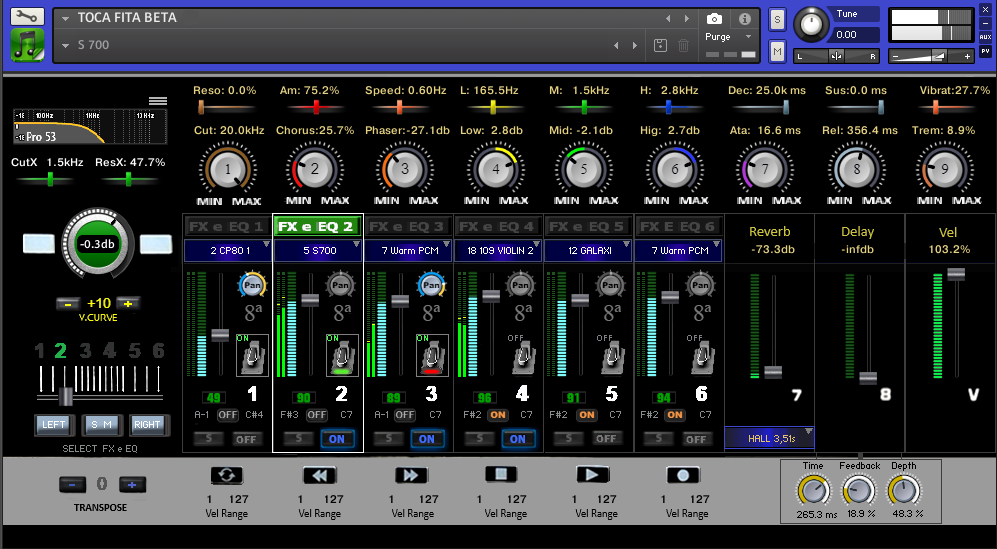
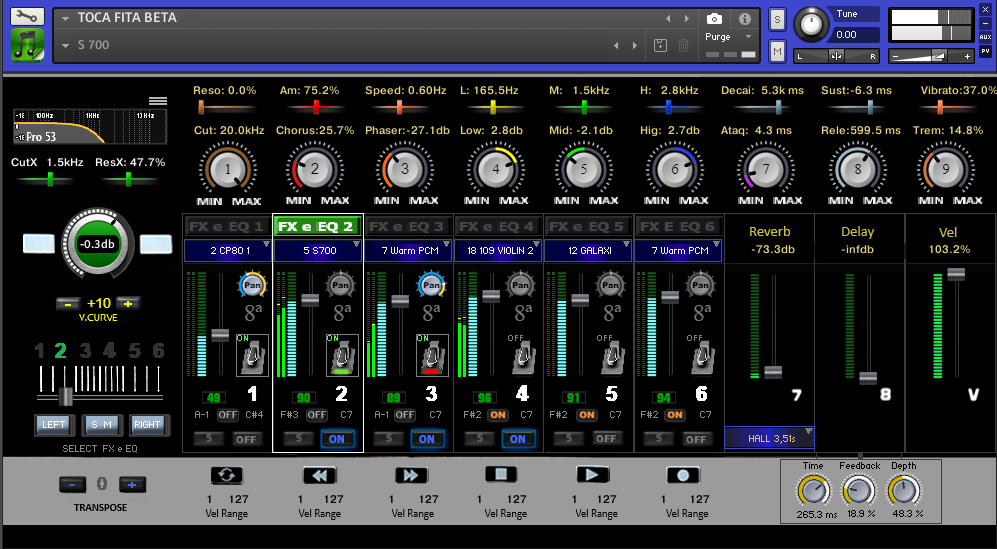
END

Changed region(s): [[0.7151, 0.1239, 1.0, 0.3716]]

diff --git a/Caracterisricas.html b/Caracterisricas.html
@@ -87,7 +87,7 @@
          <img src="imagens/FT4.png" alt="figura de comandos"> 
          <p class="espaco-reduzido">Na figura acima, encontramos os filtros e efeitos FX/EQ. À esquerda, há um menu para selecionar um dos 31 filtros disponíveis, como LP (Low Pass), que corta frequências altas, e HP (High Pass), que corta frequências baixas. Abaixo destes, temos “CutX”, que define o ponto de corte da frequência, e “ResoX”, que ajusta a intensidade ressonância do ponto de corte de CutX. Em seguida, temos “Cut” e “Reso”, que atuam de forma semelhante aos anteriores, mas aplicados a um filtro único (SV LP 2). Mais à direita, encontramos o “Chorus”, que ajusta a profundidade do efeito, e “Amount”, que controla o quanto do efeito é misturado com o som original. Seguindo, temos os controles de “Phaser” e “Speed”, que ajustam a profundidade e a velocidade do efeito Phaser, respectivamente.</p> 
          <img src="imagens/FT5.png" alt="figura de comandos"> 
-         <p class="espaco-reduzido">Em amarelo, vemos o controle de “Low” (graves), e acima dele, o controle “L” ajusta a frequência de atuação do controle "Low" (graves). O mesmo se aplica a “Mid” (médios), em verde, e “High” (agudos), em azul. Em seguida, temos o ADSR (Ataque, Decaimento, Sustentação e Liberação), com “Ata” (Ataque) em lilás e os demais controles em cinza. Por fim, encontramos os efeitos “Trem” (Tremolo) e “Vibrat” (Vibrato), ambos em laranja, eu gosto de atribuir, hora estes hora  Cut e Reso, à roda de modulação.</p> 
+         <p class="espaco-reduzido">Em amarelo, vemos o controle de “Low” (graves), e acima dele, o controle “L” ajusta a frequência de atuação do controle "Low" (graves). O mesmo se aplica a “Mid” (médios), em verde, e “High” (agudos), em azul. Em seguida, temos o ADSR (Ataque, Decaimento, Sustentação e Liberação), com “Ataq” (Ataque) em lilás e os demais controles em cinza. Por fim, encontramos os efeitos “Trem” (Tremolo) e “Vibrato”, ambos em laranja, eu gosto de atribuir, hora estes hora  Cut e Reso, à roda de modulação.</p> 
          <p class="espaco-reduzido">As cores e a proximidade dos controles ajudam a correlacionar suas funções. Todos os ajustes se aplicam ao canal ou à memória <b>selecionada</b>, lembrando a posição dos controles para cada um deles em seus respectivos canais.</p> <img src="imagens/FT6.png" alt="figura de comandos"> 
          <p class="espaco-reduzido">No canto inferior direito, temos os controles de “Reverb” e, abaixo deste, um menu para selecionar o tipo de reverb. Ao lado direito, temos o “Delay” (eco) e seus respectivos ajustes: “Time” (tempo entre repetições), “Feedback” (quantidade de repetições) e “Depth” (intensidade da modulação). Por fim, temos o controle de “Vel” (Velocidade de toque), que ajusta a sensibilidade das teclas do canal. Quanto mais elevado o valor, maior a sensibilidade e menor o volume. Cuidado,ao reduzir a sensibilidade, o volume aumenta, o que pode causar distorções. Baixar a sensibilidade e diminuir o volume é interessante para ajustar a curva de resposta em sons de PADs...</p> 
          <img src="imagens/FT7.png" alt="figura de comandos"> 
